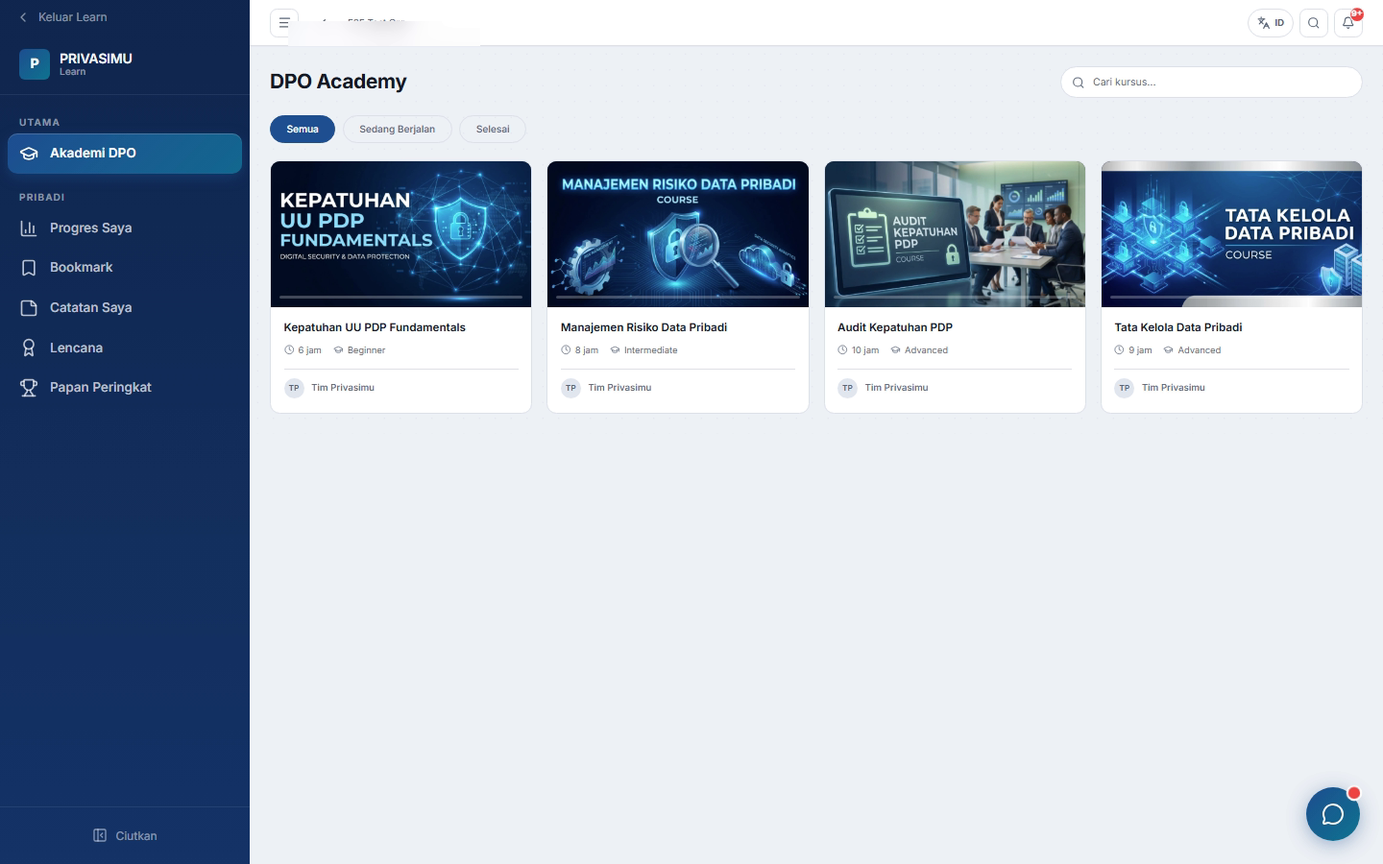
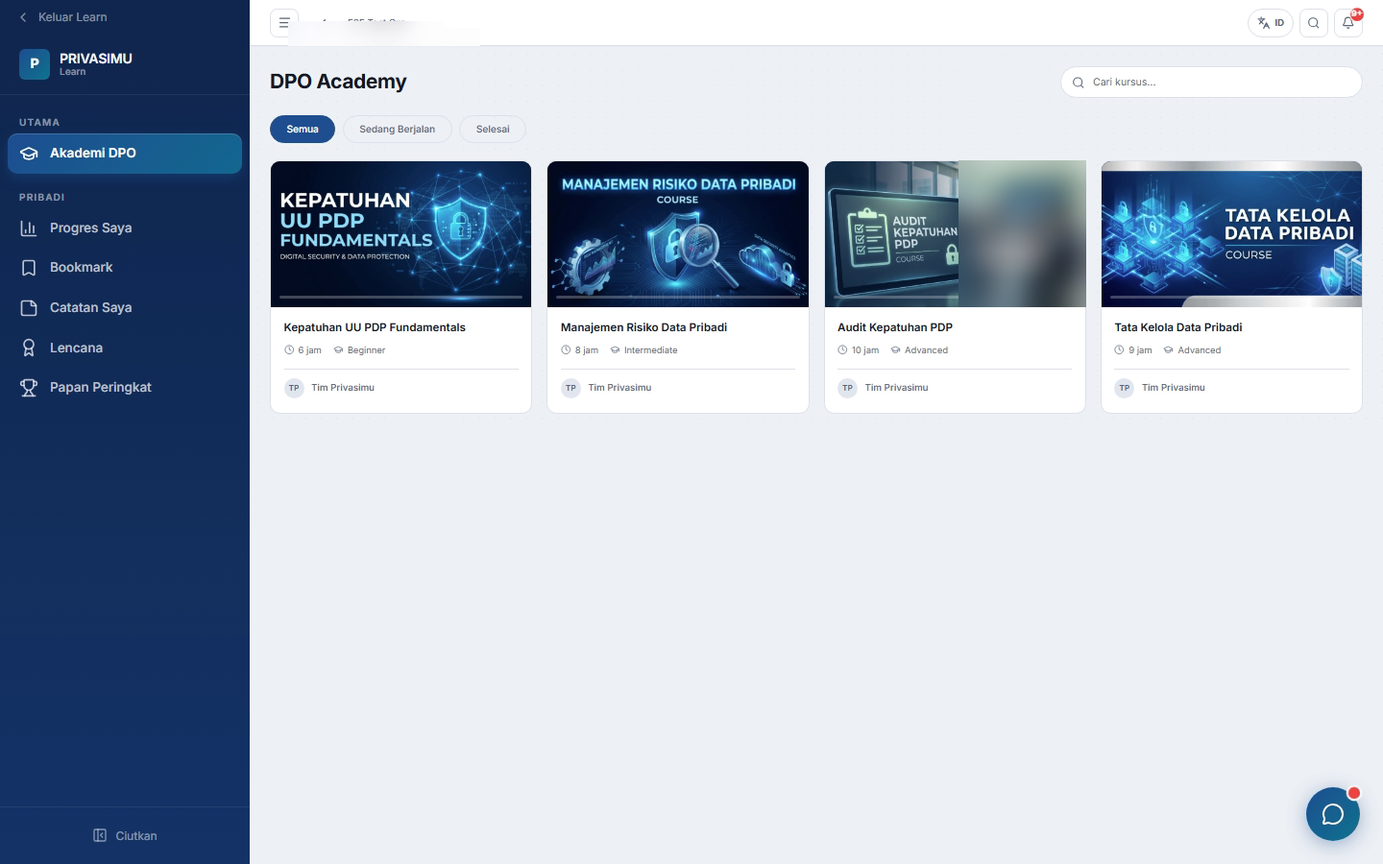
fix(audit): 10 video terakhir + nama organisasi uji dikaburkan di aset tangkapan layar
Aset (assets/app, berlaku untuk semua video):
- baris nama organisasi tenant di bawah judul halaman dikaburkan pada dashboard, breach-detail, dpia-list,
  dpia-risiko, dsr-form (bagian yang tak tertutup modal), dsr-detail, ropa-tersimpan, consent-detail,
  ai-agent-chat, gap-hasil; kolom Entitas di ropa-baru; foto berwajah di sampul kursus dpo-academy
- dikaburkan langsung di RGB dari aset lama → piksel di luar kotak identik 100% (potongan yang sudah lolos QA tetap)
- lib/app-shots.js: kotak kabur yang sama di konfigurasi, opsi `node lib/app-shots.js <nama...>`,
  overlay `format=rgb` (tanpa subsampling warna YUV saat aset dibuat ulang)

Video:
- gb52-rantai : goresan retak liar di semua mata rantai dihapus (hanya mata lemah); 9:16 rantai ±1,6× lebih besar;
                judul pesan di layar (Sekuat yang terlemah → Putus di pihak ketiga → Ukur sebelum ditarik → Tempa dulu)
- ty12-elastis: gembok dihitung ulang setelah font termuat (tak lagi menimpa "M"); pegangan mengejar ujung kata
                yang sedang memantul (tak lagi menutupi huruf)
- ui04-screenlife: logo notifikasi tadinya putih di kotak putih (tak terlihat) → lencana biru; teks 9:16 diperbesar
- ui10-kotak-masuk: baris & teks 9:16 diperbesar, avatar/alur turun; subjek tidak terpotong
- pf14-visual-novel: catatan twist DPIA diperbesar di 9:16
- gb40-speedometer: teks layar "Oke. Siap?" selaras dengan VO
- gb23-gantt: VO tidak lagi mengklaim penjadwalan sebagai fitur ("Tinggal kamu jadwalkan.")

Changed region(s): [[0.6875, 0.1867, 0.8125, 0.3733]]

diff --git a/lib/app-shots.js b/lib/app-shots.js
@@ -1,6 +1,6 @@
 // Kurasi screenshot ASLI aplikasi (dataroom/ + frontend/tmp/audit4/) menjadi aset video di assets/app/.
 // File sumber tidak diubah: hanya dibaca, dipotong (crop) dan area sensitif (nama user, kunci API) diburamkan pada SALINAN.
-// Pakai: node lib/app-shots.js
+// Pakai: node lib/app-shots.js [nama ...]   (tanpa nama = semua aset; dengan nama = hanya itu, manifest lain dipertahankan)
 const fs = require('fs');
 const path = require('path');
 const { execFileSync } = require('child_process');
@@ -10,28 +10,29 @@ const DR = path.join(ROOT, 'dataroom', '03-tenant');
 const A4 = path.join(ROOT, 'frontend', 'tmp', 'audit4');
 const OUT = path.join(__dirname, '..', 'assets', 'app');
 const SIDEBAR_USER = [0, 470, 262, 140]; // blok nama user di bawah sidebar (viewport 1264)
+const ORG = [330, 36, 300, 24];          // baris nama organisasi tenant di bawah judul halaman (viewport 1264, belum digulir)
 
 // crop: [x, y, w, h] | null (utuh); blur: daftar [x, y, w, h] relatif ke gambar SUMBER
 const SHOTS = [
-  { name: 'dashboard', src: `${DR}/dashboard/01-overview.png`, crop: [0, 0, 1264, 790], blur: [SIDEBAR_USER], desc: 'Dashboard: sambutan, skor GAP 81%, DSR pending, breach aktif, ringkasan modul (tampilan penuh dengan sidebar)' },
+  { name: 'dashboard', src: `${DR}/dashboard/01-overview.png`, crop: [0, 0, 1264, 790], blur: [SIDEBAR_USER, ORG], desc: 'Dashboard: sambutan, skor GAP 81%, DSR pending, breach aktif, ringkasan modul (tampilan penuh dengan sidebar)' },
   { name: 'dashboard-postur', src: `${DR}/dashboard/01-overview.png`, crop: [262, 770, 1002, 480], desc: 'Postur Kepatuhan: tren bulanan per modul + Compliance Score 81% (lingkaran)' },
   // angka total di donat "Distribusi Risiko RoPA" tampil rusak ("09192") → diburamkan
   { name: 'dashboard-risiko', src: `${DR}/dashboard/01-overview.png`, crop: [262, 1262, 1002, 478], blur: [[672, 1508, 112, 52]], desc: 'Risk Analytics: DPIA Risk Heatmap 5x5 + distribusi risiko RoPA (angka total diburamkan) + Top Risks' },
   { name: 'dashboard-sla', src: `${DR}/dashboard/01-overview.png`, crop: [262, 1750, 1002, 380], desc: 'Operasional/SLA: waktu respon DSR, timeline breach terbaru, consent adoption' },
-  { name: 'breach-detail', src: `${DR}/breach/03-detail.png`, crop: [0, 0, 1264, 790], blur: [SIDEBAR_USER], desc: 'Detail insiden BRC: label HIGH/Wajib Notifikasi, deskripsi, stepper 5 fase (Terdeteksi-Assessment-Containment-Notifikasi-Ditutup)' },
+  { name: 'breach-detail', src: `${DR}/breach/03-detail.png`, crop: [0, 0, 1264, 790], blur: [SIDEBAR_USER, ORG], desc: 'Detail insiden BRC: label HIGH/Wajib Notifikasi, deskripsi, stepper 5 fase (Terdeteksi-Assessment-Containment-Notifikasi-Ditutup)' },
   { name: 'breach-fase', src: `${DR}/breach/03-detail.png`, crop: [262, 470, 1002, 840], desc: 'Fase 1 Deteksi & Eskalasi: daftar tugas tercentang, keterkaitan RoPA, form severity & jumlah terdampak' },
   { name: 'breach-aksi', src: `${DR}/breach/03-detail.png`, crop: [262, 1505, 1002, 150], desc: 'Tombol aksi insiden: Template Pemberitahuan, Timeline, RACI Matrix, War Room, PICAPA, SIEM/SOAR, Unduh PDF' },
   { name: 'breach-ai', src: `${DR}/breach/03-detail.png`, crop: [262, 1760, 1002, 200], desc: 'AI Incident Response Advisor + tombol Generate AI Incident Response' },
-  { name: 'ropa-baru', src: `${DR}/ropa/04-wizard-step1.png`, blur: [[0, 500, 262, 69]], desc: 'Modal Buat RoPA Baru (awal wizard)' },
+  { name: 'ropa-baru', src: `${DR}/ropa/04-wizard-step1.png`, blur: [[0, 500, 262, 69], [215, 238, 330, 30]], desc: 'Modal Buat RoPA Baru (awal wizard)' },
   { name: 'ropa-data-spesifik', src: `${DR}/ropa/09-wizard-section4-pengumpulan.png`, crop: [262, 60, 1002, 940], desc: 'Wizard RoPA bagian Pengumpulan Data: sumber data, jumlah subjek, daftar Data Pribadi Spesifik (kesehatan, biometrik, anak, keuangan, dll.)' },
-  { name: 'ropa-tersimpan', src: `${DR}/ropa/14-after-save.png`, blur: [[0, 500, 262, 69]], desc: 'RoPA tersimpan (notifikasi berhasil + daftar)' },
-  { name: 'dpia-list', src: `${DR}/dpia/02-list.png`, crop: [0, 0, 1264, 790], blur: [SIDEBAR_USER], desc: 'Daftar DPIA' },
-  { name: 'dpia-risiko', src: `${DR}/dpia/06-wizard-step3-risiko.png`, crop: [0, 0, 1264, 790], blur: [SIDEBAR_USER], desc: 'Wizard DPIA langkah Potensi Risiko (kategori risiko, pertanyaan, progres)' },
-  { name: 'dsr-form', src: `${DR}/dsr/02-create-modal.png`, crop: [0, 0, 1264, 790], blur: [SIDEBAR_USER, [262, 515, 1002, 275]], desc: 'Modal Buat DSR Baru: aplikasi, nama & email pemohon, tipe permintaan' },
-  { name: 'dsr-detail', src: `${DR}/dsr/05-detail.png`, crop: [262, 0, 1002, 250], desc: 'Header detail DSR-2026-017: tipe Akses Data, status pending review, pil tenggat "7h tersisa", tab Overview/Scope/SQL Pack/Executions/Certificates' },
-  { name: 'consent-detail', src: `${DR}/consent/02-detail.png`, crop: [0, 0, 1625, 1015], blur: [[0, 470, 330, 90], [300, 525, 1010, 180]], desc: 'Consent point: ringkasan, integrasi (Consent Form Embed, Preference Center, API Server, Real-time Webhook, Embed & RoPA)' },
-  { name: 'ai-agent-chat', src: `${DR}/ai-agent/03-chat-response.png`, blur: [[0, 500, 262, 69]], desc: 'AI Agent PRIVASIMU menjawab (rekomendasi RoPA/DPIA)' },
-  { name: 'gap-hasil', src: `${DR}/gap-assessment/02-hasil.png`, crop: [262, 113, 1002, 690], desc: 'Hasil GAP Assessment: compliance score 81%, framework UU No. 27/2022, statistik per area' },
+  { name: 'ropa-tersimpan', src: `${DR}/ropa/14-after-save.png`, blur: [[0, 500, 262, 69], ORG], desc: 'RoPA tersimpan (notifikasi berhasil + daftar)' },
+  { name: 'dpia-list', src: `${DR}/dpia/02-list.png`, crop: [0, 0, 1264, 790], blur: [SIDEBAR_USER, ORG], desc: 'Daftar DPIA' },
+  { name: 'dpia-risiko', src: `${DR}/dpia/06-wizard-step3-risiko.png`, crop: [0, 0, 1264, 790], blur: [SIDEBAR_USER, ORG], desc: 'Wizard DPIA langkah Potensi Risiko (kategori risiko, pertanyaan, progres)' },
+  { name: 'dsr-form', src: `${DR}/dsr/02-create-modal.png`, crop: [0, 0, 1264, 790], blur: [SIDEBAR_USER, [262, 515, 1002, 275], [330, 34, 300, 9], [330, 43, 36, 17]], desc: 'Modal Buat DSR Baru: aplikasi, nama & email pemohon, tipe permintaan' },
+  { name: 'dsr-detail', src: `${DR}/dsr/05-detail.png`, crop: [262, 0, 1002, 250], blur: [ORG], desc: 'Header detail DSR-2026-017: tipe Akses Data, status pending review, pil tenggat "7h tersisa", tab Overview/Scope/SQL Pack/Executions/Certificates' },
+  { name: 'consent-detail', src: `${DR}/consent/02-detail.png`, crop: [0, 0, 1625, 1015], blur: [[0, 470, 330, 90], [300, 525, 1010, 180], ORG], desc: 'Consent point: ringkasan, integrasi (Consent Form Embed, Preference Center, API Server, Real-time Webhook, Embed & RoPA)' },
+  { name: 'ai-agent-chat', src: `${DR}/ai-agent/03-chat-response.png`, blur: [[0, 500, 262, 69], ORG], desc: 'AI Agent PRIVASIMU menjawab (rekomendasi RoPA/DPIA)' },
+  { name: 'gap-hasil', src: `${DR}/gap-assessment/02-hasil.png`, crop: [262, 113, 1002, 690], blur: [[330, 149, 300, 24]], desc: 'Hasil GAP Assessment: compliance score 81%, framework UU No. 27/2022, statistik per area' },
   { name: 'gap-rekomendasi', src: `${DR}/gap-assessment/02-hasil.png`, crop: [262, 1250, 1002, 900], desc: 'GAP Assessment: rekomendasi perbaikan per pasal (CRITICAL/HIGH/MEDIUM) + AI Remediation Plan' },
   // kartu "Terakhir disimpan" memuat ID soal & nama file dokumen → bagian bawahnya diburamkan
   { name: 'gap-ringkasan', src: `${DR}/gap-assessment/01-overview.png`, crop: [262, 170, 1002, 660], blur: [[888, 508, 326, 238]], desc: 'GAP Assessment: KPI (4 asesmen, skor tertinggi 81%, rata-rata 73%) + grafik skor per versi + kartu lanjutkan assessment' },
@@ -39,7 +40,7 @@ const SHOTS = [
   { name: 'postur-privasi', src: `${A4}/security.png`, crop: [345, 62, 1000, 355], desc: 'Privacy Posture Score 56 "Cukup" + 3-Layer Breakdown (Data 49, Process 80, Response 38), UI terbaru' },
   { name: 'children-pro', blur: [[300, 22, 200, 26]], src: `${A4}/consent__guardian.png`, desc: 'Children Pro (persetujuan wali anak): judul, tab Kewenangan Wali / Menunggu / Peralihan (tampilan terbaru)' },
   { name: 'inclusive-privacy', blur: [[300, 22, 200, 26]], src: `${A4}/consent__accessibility.png`, desc: 'Inclusive Privacy (persetujuan aksesibel penyandang disabilitas): judul & tab (tampilan terbaru)' },
-  { name: 'dpo-academy', blur: [[300, 22, 200, 26]], src: `${A4}/learn__dpo-academy.png`, desc: 'DPO Academy: kartu kursus Kepatuhan UU PDP, Manajemen Risiko, Audit Kepatuhan, Tata Kelola (tampilan terbaru)' },
+  { name: 'dpo-academy', blur: [[300, 22, 200, 26], [998, 167, 133, 153]], src: `${A4}/learn__dpo-academy.png`, desc: 'DPO Academy: kartu kursus Kepatuhan UU PDP, Manajemen Risiko, Audit Kepatuhan, Tata Kelola (tampilan terbaru)' },
   { name: 'ai-agent-home', blur: [[300, 22, 200, 26]], src: `${A4}/ai-agent.png`, desc: 'AI Agent: sapaan "apa yang ingin Anda ketahui?", chip modul & saran pertanyaan (tampilan terbaru)' },
   { name: 'policy-review', blur: [[300, 22, 200, 26]], src: `${A4}/policy-review.png`, desc: 'Telaah Kebijakan: ringkasan kesesuaian & daftar dokumen (tampilan terbaru)' },
   { name: 'holding-header', blur: [[300, 22, 200, 26]], src: `${A4}/holding-dashboard.png`, crop: [200, 0, 1240, 200], desc: 'Holding Group Dashboard: judul & tab (tampilan terbaru, tanpa data grup)' },
@@ -50,14 +51,15 @@ const SHOTS = [
 ];
 
 fs.mkdirSync(OUT, { recursive: true });
-const manifest = {};
-for (const s of SHOTS) {
+const PILIH = process.argv.slice(2), MANIFEST = path.join(OUT, 'manifest.json');
+const manifest = PILIH.length && fs.existsSync(MANIFEST) ? JSON.parse(fs.readFileSync(MANIFEST, 'utf8')) : {};
+for (const s of SHOTS.filter((x) => !PILIH.length || PILIH.includes(x.name))) {
   const out = path.join(OUT, s.name + '.png');
   const parts = [];
   let cur = '[0:v]';
   (s.blur || []).forEach((b, i) => {
     const [x, y, w, h] = b;
-    parts.push(`${cur}split[m${i}][c${i}];[c${i}]crop=${w}:${h}:${x}:${y},gblur=sigma=14:steps=3[b${i}];[m${i}][b${i}]overlay=${x}:${y}[o${i}]`);
+    parts.push(`${cur}split[m${i}][c${i}];[c${i}]crop=${w}:${h}:${x}:${y},gblur=sigma=14:steps=3[b${i}];[m${i}][b${i}]overlay=${x}:${y}:format=rgb[o${i}]`); // format=rgb: tanpa subsampling warna YUV
     cur = `[o${i}]`;
   });
   const crop = s.crop ? `crop=${s.crop[2]}:${s.crop[3]}:${s.crop[0]}:${s.crop[1]}` : 'null';

diff --git a/gb52-rantai/style.js b/gb52-rantai/style.js
@@ -5,10 +5,12 @@
 (function () {
   const { V, SW, SH, h, esc, rich, $, pick } = KIT;
   const { P, cl, lerp, E, hash, tf } = MG;
-  const N = 7, LEMAH = 3, PITCH = pick(200, 104), LW = pick(220, 118), LH = pick(100, 58), Y = pick(520, 900);
+  const N = 7, LEMAH = 3, PITCH = pick(200, 170), LW = pick(220, 192), LH = pick(100, 94), Y = pick(520, 880);
   const X0 = SW / 2 - (N - 1) * PITCH / 2;
   const PIHAK = ['kamu', 'payroll*', 'cloud*', 'call center*', 'logistik*', 'percetakan*', 'pelanggan'];
   const SKOR = [null, 82, 76, 41, 88, 79, null];
+  const JUDUL = [['mulai', 'Sekuat yang terlemah.'], ['putus', 'Putus di pihak ketiga.'], ['tautan', 'Ukur sebelum ditarik.'], ['tempa', 'Tempa dulu, baru tarik.']];
+  const LX = (i) => (V ? cl(X0 + i * PITCH, 90, SW - 90) : X0 + i * PITCH); // 9:16: rantai lebih besar, ujungnya keluar layar
   const C = { mulai: 9e9, tarik: 9e9, retak: 9e9, catat: 9e9, putus: 9e9, tautan: 9e9, kuesioner: 9e9, skor: 9e9, tempa: 9e9, las: 9e9, tarik2: 9e9, tahan: 9e9, tutup: 9e9 };
   let lapis = null, el = null;
 
@@ -16,6 +18,7 @@
     if (lapis) return;
     lapis = PD.lapis('rt-lapis');
     el = {};
+    el.kop = h('<div class="rt-kop"></div>'); lapis.appendChild(el.kop);
     el.brankas = h(`<div class="rt-blok kiri" style="left:${X0 - PITCH * pick(1, 0.9) - pick(40, 10)}px;top:${Y}px"><i></i>DATAMU</div>`); lapis.appendChild(el.brankas);
     el.beban = h(`<div class="rt-blok kanan" style="left:${X0 + (N - 1) * PITCH + PITCH * pick(1, 0.9) + pick(40, 10)}px;top:${Y}px">TARIK<b>→</b></div>`); lapis.appendChild(el.beban);
     el.kiri = h('<div class="rt-grup"></div>'); el.kanan = h('<div class="rt-grup"></div>'); lapis.appendChild(el.kiri); lapis.appendChild(el.kanan);
@@ -23,15 +26,15 @@
     for (let i = 0; i < N; i++) {
       const grup = i < LEMAH ? el.kiri : (i > LEMAH ? el.kanan : null);
       const buat = (klip) => {
-        const m = h(`<div class="rt-mata ${i % 2 ? '' : 'samping'} ${klip || ''}" style="width:${i % 2 ? LW : LW * 0.5}px;height:${i % 2 ? LH : LH * 0.38}px"><svg class="retak" viewBox="0 0 100 100" preserveAspectRatio="none"><path d="M52 0 L44 22 L58 38 L46 56 L56 74 L48 100" pathLength="100"/></svg></div>`);
+        const m = h(`<div class="rt-mata ${i % 2 ? '' : 'samping'} ${klip ? 'lemah ' + klip : ''}" style="width:${i % 2 ? LW : LW * 0.5}px;height:${i % 2 ? LH : LH * 0.38}px"><svg class="retak" viewBox="0 0 100 100" preserveAspectRatio="none"><path d="M52 0 L44 22 L58 38 L46 56 L56 74 L48 100" pathLength="100"/></svg></div>`);
         (klip === 'kiriPotong' ? el.kiri : klip === 'kananPotong' ? el.kanan : grup).appendChild(m); return m;
       };
       if (i === LEMAH) el.mata.push([buat('kiriPotong'), buat('kananPotong')]); else el.mata.push(buat());
-      const lb = h(`<div class="rt-label" style="left:${X0 + i * PITCH}px;top:${Y + LH / 2 + 26}px">${esc(PIHAK[i])}</div>`); lapis.appendChild(lb); el.label.push(lb);
-      const sk = h(`<div class="rt-skor" style="left:${X0 + i * PITCH}px;top:${Y - LH / 2 - 30}px">${SKOR[i] == null ? '' : SKOR[i]}</div>`); lapis.appendChild(sk); el.skor.push(sk);
+      const lb = h(`<div class="rt-label${i === N - 1 ? ' ujung' : ''}" style="left:${LX(i)}px;top:${Y + LH / 2 + 26}px">${esc(PIHAK[i])}</div>`); lapis.appendChild(lb); el.label.push(lb);
+      const sk = h(`<div class="rt-skor" style="left:${LX(i)}px;top:${Y - LH / 2 - 30}px">${SKOR[i] == null ? '' : SKOR[i]}</div>`); lapis.appendChild(sk); el.skor.push(sk);
     }
     el.dok = Array.from({ length: 7 }, (_, i) => { const d = h('<div class="rt-dok"><i></i><i></i><i></i></div>'); lapis.appendChild(d); return d; });
-    el.tautan = h(`<div class="rt-tautan" style="left:${X0 + LEMAH * PITCH}px;top:${Y - LH / 2 - 120}px"><i></i>tautan asesmen publik · tanpa akun</div>`); lapis.appendChild(el.tautan);
+    el.tautan = h(`<div class="rt-tautan" style="left:${X0 + LEMAH * PITCH}px;top:${Y - LH / 2 - pick(120, 150)}px"><i></i>tautan asesmen publik · tanpa akun</div>`); lapis.appendChild(el.tautan);
     el.kartu = h(`<div class="rt-kartu"><b>Asesmen Pihak Ketiga · 12 pertanyaan*</b>${['Kebijakan pelindungan data', 'Enkripsi & kontrol akses', 'Sub-pemroses & transfer', 'Penanganan insiden'].map((s) => `<div class="baris"><i></i><span>${s}</span><em>bukti · AI</em></div>`).join('')}</div>`); lapis.appendChild(el.kartu);
     el.barisK = Array.from(el.kartu.querySelectorAll('.baris'));
     el.tahan = h('<div class="rt-tahan">TAHAN ✓</div>'); lapis.appendChild(el.tahan);
@@ -62,6 +65,7 @@
       [a, b].forEach((m) => {
         m.style.opacity = t >= C.mulai + 0.1 + i * 0.06 ? 1 : 0;
         m.classList.toggle('merah', t >= C.retak && !utuh); m.classList.toggle('las', las > 0); m.classList.toggle('utuh', utuh);
+        m.querySelector('.retak').style.visibility = t >= C.retak && !utuh ? 'visible' : 'hidden';
         m.querySelector('path').style.strokeDashoffset = utuh ? 100 : (100 - 100 * E.out3(kr)).toFixed(1);
         m.style.boxShadow = las > 0 ? `0 0 ${(40 * las).toFixed(0)}px ${(12 * las).toFixed(0)}px rgba(255,140,40,${(0.9 * las).toFixed(2)})` : '';
       });
@@ -92,6 +96,9 @@
     });
     const kth = t >= C.tahan ? E.outBack(Math.max(0.001, P(t, C.tahan, C.tahan + 0.4))) : 0;
     el.tahan.style.opacity = kth > 0.001 ? 1 : 0; el.tahan.style.transform = `translate(-50%, -50%) rotate(-8deg) scale(${kth.toFixed(3)})`;
+    let jud = null, tj = 0; JUDUL.forEach(([k, s]) => { if (t >= C[k] && C[k] >= tj) { jud = s; tj = C[k]; } });
+    if (jud != null && el.kop.textContent !== jud) el.kop.textContent = jud;
+    const kj = E.out3(P(t, tj, tj + 0.35)); el.kop.style.opacity = jud ? kj : 0; el.kop.style.transform = `translateX(-50%) translateY(${((1 - kj) * 16).toFixed(1)}px)`;
     el.catatan.style.opacity = t >= C.mulai + 1 ? 0.8 : 0;
     lapis.style.opacity = (1 - P(t, C.tutup, C.tutup + 0.3)).toFixed(3);
   }

diff --git a/ui10-kotak-masuk/style.css b/ui10-kotak-masuk/style.css
@@ -14,14 +14,17 @@ body { background: #E9EDF4; color: #1B1B1B; }
 .v .em-kepala .jam { font-size: 30px; }
 .em-list { position: absolute; inset: 0; }
 .em-baris { position: absolute; top: 0; height: 92px; border-radius: 16px; background: #fff; box-shadow: 0 6px 18px rgba(11,27,77,.06); display: flex; align-items: center; gap: 18px; padding: 0 22px; box-sizing: border-box; opacity: 0; transform-origin: 50% 50%; font-family: 'Inter', sans-serif; overflow: hidden; }
-.v .em-baris { height: 104px; }
+.v .em-baris { height: 134px; padding: 0 26px; }
+.v .em-baris .av { width: 64px; height: 64px; font-size: 22px; line-height: 64px; }
+.v .em-baris em { font-size: 21px; }
+.v .em-baris .tag { font-size: 20px; }
 .em-baris .av { width: 54px; height: 54px; border-radius: 50%; background: #E3EAF6; color: #0B1B4D; font: 800 19px/54px 'Inter', sans-serif; text-align: center; font-style: normal; flex: 0 0 auto; }
 .em-baris .isi { flex: 1; min-width: 0; display: grid; grid-template-columns: 260px 1fr; grid-template-rows: auto auto; column-gap: 18px; align-items: center; }
 .v .em-baris .isi { grid-template-columns: 1fr; row-gap: 2px; }
 .em-baris b { grid-row: 1 / span 2; font: 700 24px/1.2 'Inter', sans-serif; color: #0B1B4D; white-space: nowrap; overflow: hidden; text-overflow: ellipsis; }
-.v .em-baris b { grid-row: auto; font-size: 20px; }
+.v .em-baris b { grid-row: auto; font-size: 24px; }
 .em-baris .subjek { font: 700 24px/1.2 'Inter', sans-serif; color: #1B1B1B; white-space: nowrap; overflow: hidden; text-overflow: ellipsis; }
-.v .em-baris .subjek { font-size: 24px; }
+.v .em-baris .subjek { font-size: 31px; }
 .em-baris .pra { font: 500 19px/1.2 'Inter', sans-serif; color: #7A869E; white-space: nowrap; overflow: hidden; text-overflow: ellipsis; }
 .v .em-baris .pra { display: none; }
 .em-baris em { font: 600 18px/1 'Inter', sans-serif; font-style: normal; color: #7A869E; flex: 0 0 auto; }
@@ -29,7 +32,8 @@ body { background: #E9EDF4; color: #1B1B1B; }
 .em-baris.takut .av { background: #FFE1E4; color: #E63946; }
 .em-baris.takut.sorot { background: #FFF5F5; box-shadow: 0 0 0 4px #E63946, 0 24px 60px rgba(230,57,70,.35); z-index: 5; }
 .em-baris.takut.sorot .subjek { color: #E63946; font-size: 28px; }
-.v .em-baris.takut.sorot .subjek { font-size: 28px; }
+.v .em-baris.takut.sorot .subjek { font-size: 31px; }
+.v .em-baris.takut.hijau em { display: none; } /* ruang untuk label tiket */
 .em-baris.takut.hijau { box-shadow: 0 0 0 4px #1B7F3B, 0 20px 50px rgba(27,127,59,.25); }
 .em-baris.takut.hijau .tag { display: block; }
 .em-baris.takut.hijau .av { background: #E3F5E9; color: #1B7F3B; }
@@ -40,7 +44,9 @@ body { background: #E9EDF4; color: #1B1B1B; }
 .em-avatar.dapat b { transform: scale(1); }
 .em-fwd { position: absolute; left: 0; top: 0; padding: 10px 18px; border-radius: 12px; background: #FFD166; color: #1B1B1B; font: 800 20px/1 'Inter', sans-serif; box-shadow: 0 10px 24px rgba(0,0,0,.2); opacity: 0; }
 .em-balas { position: absolute; left: 0; top: 0; padding: 12px 18px; border-radius: 16px 16px 16px 4px; background: #fff; border: 2px solid #DCE2EC; font: 600 20px/1 'Inter', sans-serif; color: #1B1B1B; white-space: nowrap; box-shadow: 0 10px 24px rgba(11,27,77,.12); opacity: 0; transform-origin: 100% 50%; }
-.v .em-balas { transform-origin: 50% 100%; border-radius: 16px 16px 4px 16px; }
+.v .em-balas { transform-origin: 50% 100%; border-radius: 16px 16px 4px 16px; font-size: 25px; }
+.v .em-avatar span { font-size: 24px; }
+.v .em-alur span { font-size: 26px; }
 .em-tenggat { position: absolute; right: 40px; top: 24px; padding: 12px 20px; border-radius: 14px; background: #0B1B4D; color: #fff; font: 700 20px/1 'Inter', sans-serif; letter-spacing: .1em; opacity: 0; transform-origin: 100% 0; white-space: nowrap; z-index: 6; }
 .v .em-tenggat { top: 44px; right: 40px; }
 .em-tenggat b { font-family: 'JetBrains Mono', monospace; font-size: 28px; margin-left: 8px; color: #FFD166; }

diff --git a/gb52-rantai/style.css b/gb52-rantai/style.css
@@ -10,20 +10,21 @@ body { background: #1A1F2A; color: #fff; }
 .rt-mata.utuh { border-color: #7FD3A1; border-top-color: #B8F0CE; border-bottom-color: #3F8F5F; }
 .rt-mata.kiriPotong { clip-path: inset(-40px 50% -40px -40px); }
 .rt-mata.kananPotong { clip-path: inset(-40px -40px -40px 50%); }
-.rt-mata .retak { position: absolute; left: -20px; top: -20px; width: calc(100% + 40px); height: calc(100% + 40px); overflow: visible; }
+.rt-mata .retak { display: none; }
+.rt-mata.lemah .retak { display: block; position: absolute; left: -20px; top: -20px; width: calc(100% + 40px); height: calc(100% + 40px); overflow: visible; }
 .rt-mata .retak path { fill: none; stroke: #FFEDED; stroke-width: 7; stroke-linejoin: round; stroke-linecap: round; stroke-dasharray: 100; stroke-dashoffset: 100; vector-effect: non-scaling-stroke; filter: drop-shadow(0 0 6px rgba(255,80,80,.9)); }
 .rt-mata.samping .retak { display: none; }
 .rt-blok { position: absolute; padding: 26px 30px; border-radius: 18px; background: #0B1B4D; color: #fff; font: 900 26px/1 'Inter', sans-serif; letter-spacing: .1em; box-shadow: 0 16px 40px rgba(0,0,0,.5); opacity: 0; white-space: nowrap; display: flex; align-items: center; gap: 14px; }
-.v .rt-blok { padding: 16px; font-size: 0; gap: 0; }
-.v .rt-blok b { font-size: 30px; }
+.v .rt-blok { display: none; }
 .rt-blok i { width: 30px; height: 30px; border-radius: 6px; background: #FFD166; box-shadow: inset 0 0 0 6px #0B1B4D, inset 0 0 0 9px #FFD166; }
 .rt-blok.kanan { background: #5A6274; }
 .rt-blok b { font-size: 34px; }
 .rt-label { position: absolute; transform: translateX(-50%); padding: 8px 14px; border-radius: 10px; background: rgba(255,255,255,.08); border: 1px solid rgba(255,255,255,.2); font: 700 20px/1 'Inter', sans-serif; color: #E5EAF2; white-space: nowrap; opacity: 0; }
-.v .rt-label { font-size: 15px; padding: 6px 8px; }
+.v .rt-label { font-size: 22px; padding: 8px 12px; }
+.v .rt-label.ujung { display: none; } /* mata terakhir terpotong layar di 9:16 */
 .rt-label.merah { background: #FF6B6B; color: #2B0A0A; border-color: #FF6B6B; }
 .rt-skor { position: absolute; transform: translate(-50%, -100%); min-width: 60px; padding: 10px 14px; border-radius: 30px; background: #F4C542; color: #2B2200; text-align: center; font: 900 24px/1 'Inter', sans-serif; opacity: 0; transform-origin: 50% 100%; white-space: nowrap; box-shadow: 0 10px 24px rgba(0,0,0,.4); }
-.v .rt-skor { font-size: 17px; padding: 7px 9px; min-width: 44px; }
+.v .rt-skor { font-size: 24px; padding: 9px 12px; min-width: 56px; }
 .rt-skor.hijau { background: #1B7F3B; color: #fff; }
 .rt-skor.merah { background: #E63946; color: #fff; }
 .rt-dok { position: absolute; left: 0; top: 0; width: 30px; height: 38px; border-radius: 4px; background: #fff; opacity: 0; box-shadow: 0 6px 14px rgba(0,0,0,.5); }
@@ -42,6 +43,8 @@ body { background: #1A1F2A; color: #fff; }
 .rt-kartu .baris.cek em { opacity: 1; color: #2F6FD1; }
 .rt-tahan { position: absolute; left: 50%; top: 300px; padding: 14px 30px; border: 8px solid #7FD3A1; border-radius: 16px; color: #7FD3A1; font: 900 70px/1 'Inter', sans-serif; letter-spacing: .06em; opacity: 0; transform-origin: 50% 50%; white-space: nowrap; }
 .v .rt-tahan { top: 620px; font-size: 60px; }
+.rt-kop { position: absolute; left: 50%; top: 110px; width: 1600px; text-align: center; font: 900 72px/1.1 'Inter', sans-serif; color: #fff; letter-spacing: -.01em; opacity: 0; text-shadow: 0 6px 30px rgba(0,0,0,.5); }
+.v .rt-kop { top: 300px; width: 1000px; font-size: 84px; }
 .rt-catatan { position: absolute; right: 40px; bottom: 30px; font: 600 16px/1 'Inter', sans-serif; color: rgba(255,255,255,.55); opacity: 0; }
 .v .rt-catatan { bottom: auto; top: 1700px; right: 40px; }
 .pd-cta { --pd-font: 'Inter', sans-serif; --pd-head: 'Inter', sans-serif; --pd-acc: #F4C542; --pd-btn: #fff; --pd-btn-ink: #1A1F2A; --pd-tirai: rgba(26,31,42,.97); }

diff --git a/ui04-screenlife/style.css b/ui04-screenlife/style.css
@@ -12,12 +12,22 @@ body { background: #3D5C8C; color: #1B1B1B; }
 .sl-body { padding: 18px 20px 22px; }
 .sl-win.chat { left: 90px; top: 110px; width: 700px; }
 .v .sl-win.chat { left: 40px; top: 120px; width: 1000px; }
+.v .sl-judul { font-size: 24px; }
+.v .sl-gelembung { font-size: 28px; }
+.v .sl-gelembung.baru { font-size: 32px; }
+.v .sl-gelembung.baru b { font-size: 18px; }
 .sl-gelembung { max-width: 82%; margin: 8px 0; padding: 12px 16px; border-radius: 16px; background: #EEF2F7; font: 500 22px/1.3 'Inter', sans-serif; color: #33415C; }
 .sl-gelembung.baru { background: #FFE8D6; color: #1B1B1B; font-size: 26px; transform-origin: 0 100%; opacity: 0; border: 2px solid #F2892A; }
 .sl-gelembung.baru b { display: block; font: 800 16px/1 'Inter', sans-serif; letter-spacing: .1em; color: #C2410C; margin-bottom: 6px; text-transform: uppercase; }
 .sl-gelembung u { text-decoration: none; background: #FFD166; padding: 0 4px; border-radius: 4px; }
 .sl-win.alat { left: 860px; top: 200px; width: 760px; }
 .v .sl-win.alat { left: 40px; top: 560px; width: 1000px; }
+.v .sl-baris { font-size: 26px; }
+.v .sl-baris b { font-size: 68px; }
+.v .sl-baris.kecil b { font-size: 26px; }
+.v .sl-baris em { font-size: 20px; }
+.v .sl-filter { font-size: 24px; }
+.v .sl-kirim { font-size: 36px; padding: 24px; }
 .sl-baris { display: flex; align-items: baseline; gap: 14px; padding: 8px 0; font: 600 22px/1 'Inter', sans-serif; color: #6B7A90; }
 .sl-baris b { font: 800 56px/1 'Inter', sans-serif; color: #1B1B1B; }
 .sl-baris.kecil b { font-size: 22px; color: #33415C; }
@@ -32,9 +42,12 @@ body { background: #3D5C8C; color: #1B1B1B; }
 .sl-kirim.hover { filter: brightness(1.1); box-shadow: 0 0 0 6px rgba(229,51,63,.25), 0 10px 24px rgba(229,51,63,.35); }
 .sl-kirim.siap { background: #1B7F3B; box-shadow: 0 10px 24px rgba(27,127,59,.35); }
 .sl-kirim.tekan { transform: scale(.96); }
-.sl-notif { position: absolute; right: 40px; top: 90px; width: 560px; display: flex; gap: 14px; padding: 16px 18px; border-radius: 16px; background: #0B1B4D; color: #fff; box-shadow: 0 20px 50px rgba(0,0,0,.4); opacity: 0; }
+.sl-notif { position: absolute; right: 40px; top: 90px; width: 640px; display: flex; align-items: flex-start; gap: 14px; padding: 16px 18px; border-radius: 16px; background: #0B1B4D; color: #fff; box-shadow: 0 20px 50px rgba(0,0,0,.4); opacity: 0; }
 .v .sl-notif { right: 40px; top: 1070px; width: 1000px; }
-.sl-notif img { width: 90px; height: 90px; object-fit: contain; border-radius: 12px; background: #fff; padding: 8px; flex: 0 0 auto; }
+.sl-notif img { width: 140px; height: 44px; object-fit: contain; border-radius: 10px; background: #2F6FD1; padding: 10px 12px; box-sizing: border-box; flex: 0 0 auto; } /* logo putih → butuh latar berwarna */
+.v .sl-notif img { width: 200px; height: 60px; padding: 14px 16px; }
+.v .sl-notif b { font-size: 22px; }
+.v .sl-notif span { font-size: 27px; }
 .sl-notif b { display: block; font: 800 18px/1 'Inter', sans-serif; color: #FFD166; margin-bottom: 6px; }
 .sl-notif span { font: 500 19px/1.3 'Inter', sans-serif; }
 .sl-notif strong { color: #FF8A80; }

diff --git a/ty12-elastis/style.js b/ty12-elastis/style.js
@@ -63,7 +63,7 @@
     // 3×24 JAM (baja)
     let goyang = 0; C.coba.forEach((t0) => { if (t >= t0 + 0.2 && t < t0 + 0.42) goyang = (hash(Math.floor(t * 60)) - 0.5) * 5; });
     const kmd = E.io3(P(t, C.mundur, C.mundur + 0.4));
-    regang(el.k2, 1);
+    regang(el.k2, 1); el.gembok.style.left = (X2 + el.k2.total + 14).toFixed(1) + 'px'; // lebar diukur ulang setelah font termuat
     el.k2.el.style.opacity = (t >= C.baja ? 1 : 0) * (1 - kmd);
     el.k2.el.style.transform = `translate(${(X2 + goyang).toFixed(1)}px, ${Y2}px) translateY(-50%) scale(${(t >= C.baja ? E.outBack(Math.max(0.001, P(t, C.baja, C.baja + 0.5))) : 0).toFixed(3)})`;
     const kg = t >= C.kunci ? E.outBack(Math.max(0.001, P(t, C.kunci, C.kunci + 0.4))) * (1 - kmd) : 0;
@@ -73,13 +73,13 @@
     for (let i = 0; i < 3; i++) { // tarikan karet
       const t0 = C.tarik[i]; if (t < t0 - 0.3 || t > t0 + D + HD + 0.4) continue;
       const total = el.k1.total; py = Y1;
-      if (t < t0) { po = P(t, t0 - 0.3, t0 - 0.1); px = X1 + total + 30 + 220 * (1 - E.out3(P(t, t0 - 0.3, t0))); }
-      else if (t <= t0 + D + HD) { po = 1; px = X1 + w1 + 30; }
-      else { const tau = t - t0 - D - HD; po = 1 - P(tau, 0.08, 0.35); px = X1 + lebar(el.k1, S_MAX[i]) + 30 + 140 * E.out3(P(tau, 0, 0.3)); }
+      if (t < t0) { po = P(t, t0 - 0.3, t0 - 0.1); px = X1 + w1 + 50 + 220 * (1 - E.out3(P(t, t0 - 0.3, t0))); } // kejar ujung kata yang masih memantul
+      else if (t <= t0 + D + HD) { po = 1; px = X1 + w1 + 50; }
+      else { const tau = t - t0 - D - HD; po = 1 - P(tau, 0.08, 0.35); px = X1 + lebar(el.k1, S_MAX[i]) + 50 + 140 * E.out3(P(tau, 0, 0.3)); }
     }
     for (let i = 0; i < 3; i++) { // percobaan pada baja
       const t0 = C.coba[i]; if (t < t0 - 0.3 || t > t0 + 1.1) continue;
-      const ujung = X2 + el.k2.total + 30; py = Y2;
+      const ujung = X2 + el.k2.total + 50; py = Y2;
       if (t < t0) { po = P(t, t0 - 0.3, t0 - 0.1); px = ujung + 220 * (1 - E.out3(P(t, t0 - 0.3, t0))); psx = 1; }
       else {
         const kp = E.io3(P(t, t0, t0 + 0.3)), tau = t - t0 - 0.3, melar = i === 0 ? 0.35 : 0.95;

diff --git a/ui10-kotak-masuk/style.js b/ui10-kotak-masuk/style.js
@@ -16,9 +16,9 @@
   ];
   const TAKUT = ['?', 'Pelanggan · p•••@•••.id', 'Tolong hapus semua data saya.', 'Saya ingin seluruh data pribadi saya dihapus dari sistem Anda. Mohon konfirmasi…', '08.02'];
   const PRE = ['Re: ', 'Fwd: ', 'Re: ', 'Fwd: '], ORANG = ['CS', 'Legal', 'IT', 'DPO'], BALAS = ['sudah ditangani?', 'belum, kamu?', 'cc DPO ya', '…'];
-  const LX = pick(300, 40), LW = pick(1160, 1000), TOP = pick(140, 180), RH = pick(104, 118);
-  const AV = ORANG.map((_, i) => V ? [180 + i * 240, 1330] : [1700, 250 + i * 150]);
-  const FC = V ? [540, 760] : [880, 540]; // pusat formulir/bar
+  const LX = pick(300, 40), LW = pick(1160, 1000), TOP = pick(140, 180), RH = pick(104, 148);
+  const AV = ORANG.map((_, i) => V ? [180 + i * 240, 1580] : [1700, 250 + i * 150]);
+  const FC = V ? [540, 820] : [880, 540]; // pusat formulir/bar
   const C = { mulai: 9e9, takut: 9e9, sorot: 9e9, fwd: 9e9, balas: 9e9, mundur: 9e9, tiket: 9e9, detail: 9e9, alur: 9e9, kembali: 9e9, arsip: 9e9, tutup: 9e9 };
   let lapis = null, el = null;
 
@@ -37,7 +37,7 @@
     el.balas = BALAS.map((s, i) => { const d = h(`<div class="em-balas" style="left:${AV[i][0]}px;top:${AV[i][1]}px">${esc(s)}</div>`); lapis.appendChild(d); return d; });
     el.tenggat = h('<div class="em-tenggat">TENGGAT <b>72:00:00</b></div>'); lapis.appendChild(el.tenggat); el.tenggatB = el.tenggat.querySelector('b');
     el.selesai = h('<div class="em-selesai">✓ tercatat · 1 menit*</div>'); lapis.appendChild(el.selesai);
-    el.alur = h(`<div class="em-alur" style="left:${V ? 540 : 880}px;top:${V ? 1330 : 740}px"><span>Handler</span><i>→</i><span>Reviewer</span><i>→</i><span>Approver</span></div>`); lapis.appendChild(el.alur);
+    el.alur = h(`<div class="em-alur" style="left:${V ? 540 : 880}px;top:${V ? 1580 : 740}px"><span>Handler</span><i>→</i><span>Reviewer</span><i>→</i><span>Approver</span></div>`); lapis.appendChild(el.alur);
   }
   const jam = (s) => [Math.floor(s / 3600), Math.floor(s / 60) % 60, s % 60].map((n) => String(n).padStart(2, '0')).join(':');
   function gambar(t) {

diff --git a/gb23-gantt/scenes.js b/gb23-gantt/scenes.js
@@ -54,9 +54,9 @@
     },
     {
       id: 's3', min: 6, voDelay: 0.3, mus: 'main',
-      vo: 'Di Privasimu Nexus, GAP Assessment menyusun rencana remediasinya: RoPA, DPIA, kebijakan, latihan tim, tiap tahap ada jadwalnya.',
+      vo: 'Di Privasimu Nexus, GAP Assessment menyusun rencana remediasinya: RoPA, DPIA, kebijakan, latihan tim. Tinggal kamu jadwalkan.',
       layar: 'Batang mengalir kembali ke barisnya, bertangga dari HARI INI, berganti warna; tiap batang terisi saat namanya disebut; kartu rekomendasi GAP asli muncul di pojok.',
-      sfx: [['w:Nexus', 'whoosh', 0.35], ['w:GAP', 'tick', 0.3], ['w:RoPA', 'tick', 0.3], ['w:DPIA', 'tick', 0.3], ['w:kebijakan', 'tick', 0.3], ['w:latihan', 'tick', 0.3], ['w:tiap', 'ding', 0.35]],
+      sfx: [['w:Nexus', 'whoosh', 0.35], ['w:GAP', 'tick', 0.3], ['w:RoPA', 'tick', 0.3], ['w:DPIA', 'tick', 0.3], ['w:kebijakan', 'tick', 0.3], ['w:latihan', 'tick', 0.3], ['w:Tinggal', 'ding', 0.35]],
       vis: G({ rapi: 'w:Nexus-0.2', isi: ['w:GAP', 'w:RoPA', 'w:DPIA', 'w:kebijakan', 'w:latihan'], layar: { nama: 'gap-rekomendasi', potong: [327, 495, 647, 405], at: 'w:remediasi', judul: 'GAP Assessment · Rekomendasi' } }),
     },
     {

diff --git a/pf14-visual-novel/style.css b/pf14-visual-novel/style.css
@@ -28,7 +28,7 @@ body { background: #DAD6F4; color: #0B1B4D; }
 .vn-opsi.mati span { text-decoration: line-through; }
 .vn-opsi.mati em { display: block; }
 .vn-catat { margin: 4px auto 0; width: max-content; max-width: 100%; padding: 10px 18px; border-radius: 12px; background: rgba(255,255,255,.95); text-align: center; font: 700 22px/1.3 'Inter', sans-serif; color: #1B7F3B; opacity: 0; box-shadow: 0 8px 20px rgba(27,36,71,.15); }
-.v .vn-catat { font-size: 24px; }
+.v .vn-catat { font-size: 30px; }
 .vn-sheet { position: absolute; width: 200px; height: 130px; border-radius: 10px; background: #fff; border: 2px solid #BFC7D6; box-shadow: 0 12px 26px rgba(27,36,71,.22); overflow: hidden; opacity: 0; transform-origin: 50% 50%; }
 .vn-sheet b { display: block; height: 30px; padding: 0 10px; background: #1B7F3B; color: #fff; font: 700 13px/30px 'Inter', sans-serif; white-space: nowrap; overflow: hidden; }
 .vn-sheet i { display: block; height: 1px; margin: 22px 0 0; background: #D7DEE9; box-shadow: 0 8px 0 #D7DEE9, 0 16px 0 #D7DEE9; }

diff --git a/gb40-speedometer/style.js b/gb40-speedometer/style.js
@@ -29,7 +29,7 @@
     el.kilat = h('<div class="sp-kilat"></div>'); lapis.appendChild(el.kilat);
   }
   function teksTutup(t) {
-    const urut = [[C.mulai, 'JANGAN LIHAT.', '', 0], [C.sub, 'JANGAN LIHAT.', 'kalau belum siap.', 0], [C.masih, 'Masih nonton?', '', 0], [C.serius, 'Serius. Jangan.', '', 0], [C.hitung[0], '3', 'masih nonton?', 1], [C.hitung[1], '2', 'masih nonton?', 1], [C.hitung[2], '1', '', 1]];
+    const urut = [[C.mulai, 'JANGAN LIHAT.', '', 0], [C.sub, 'JANGAN LIHAT.', 'kalau belum siap.', 0], [C.masih, 'Masih nonton?', '', 0], [C.serius, 'Oke. Siap?', '', 0], [C.hitung[0], '3', 'masih nonton?', 1], [C.hitung[1], '2', 'masih nonton?', 1], [C.hitung[2], '1', '', 1]];
     let pilih = null; urut.forEach((u) => { if (t >= u[0] && (!pilih || u[0] >= pilih[0])) pilih = u; });
     return pilih;
   }

diff --git a/gb40-speedometer/scenes.js b/gb40-speedometer/scenes.js
@@ -46,7 +46,7 @@
     {
       id: 's2', min: 3.8, voDelay: 0.3, mus: 'tense',
       vo: 'Masih nonton? Oke. Tiga, dua, satu.',
-      layar: 'Tulisan berganti "Masih nonton?" → "Serius. Jangan."; bayangan jarum makin cepat; digit 3 · 2 · 1 besar berganti; pada "satu" penutup terbelah atas-bawah dengan kilat.',
+      layar: 'Tulisan berganti "Masih nonton?" → "Oke. Siap?"; bayangan jarum makin cepat; digit 3 · 2 · 1 besar berganti; pada "satu" penutup terbelah atas-bawah dengan kilat.',
       sfx: [['w:Masih', 'tick', 0.3], ['w:Oke', 'pop', 0.3], ['w:Tiga', 'tick', 0.35], ['w:dua', 'tick', 0.35], ['w:satu', 'tick', 0.35], ['w:satu+0.25', 'hit', 0.5]],
       vis: S({ masih: 'w:Masih-0.1', serius: 'w:Oke-0.1', hitung: ['w:Tiga-0.1', 'w:dua-0.1', 'w:satu-0.1'], buka: 'w:satu+0.2' }),
     },

diff --git a/ui04-screenlife/style.js b/ui04-screenlife/style.js
@@ -67,7 +67,7 @@
     const parts = [];
     if (v.layar) {
       const L = v.layar, el = PD.layar(root, L.nama, { w: pick(760, 900), potong: L.potong, judul: L.judul });
-      el.style.left = `${pick(1120, (SW - el._w) / 2)}px`; el.style.top = `${pick(760, 1230)}px`;
+      el.style.left = `${pick(1120, (SW - el._w) / 2)}px`; el.style.top = `${pick(760, 1330)}px`;
       const t0 = T(L.at, 1.2);
       parts.push((lt, d) => { const k = E.out3(P(lt, t0, t0 + 0.5)); el.style.opacity = k.toFixed(3); el.style.transform = `translateY(${((1 - k) * 50).toFixed(1)}px)`; });
     }
